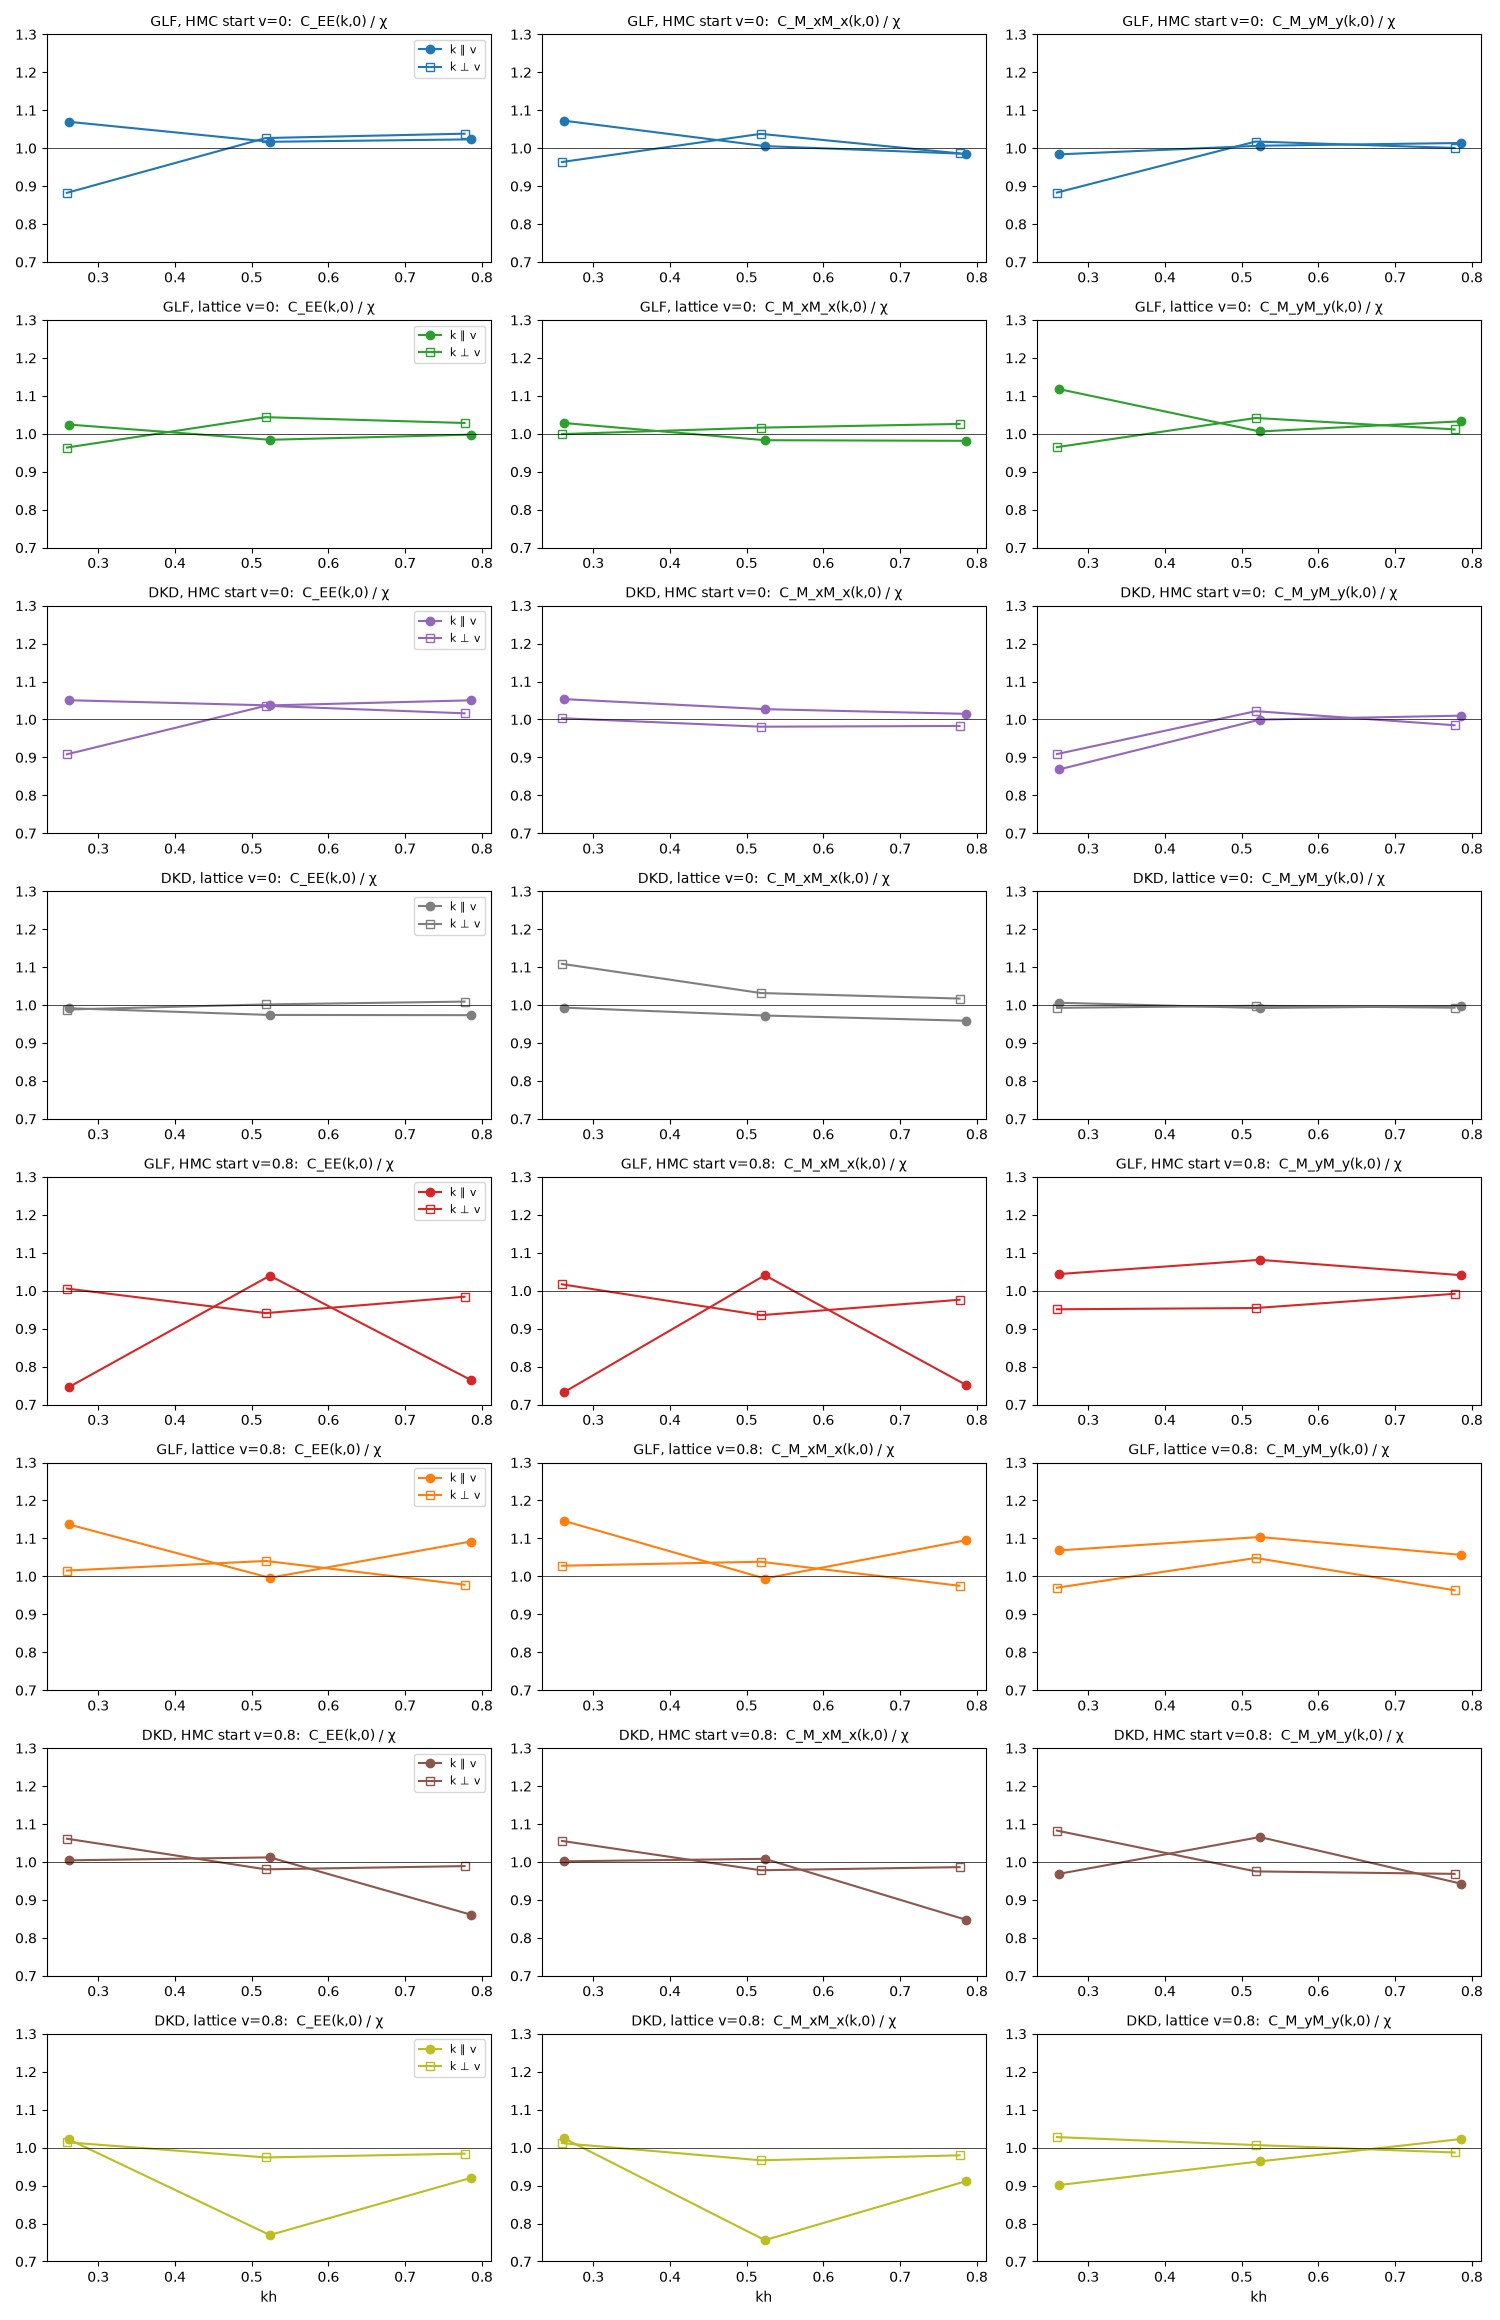
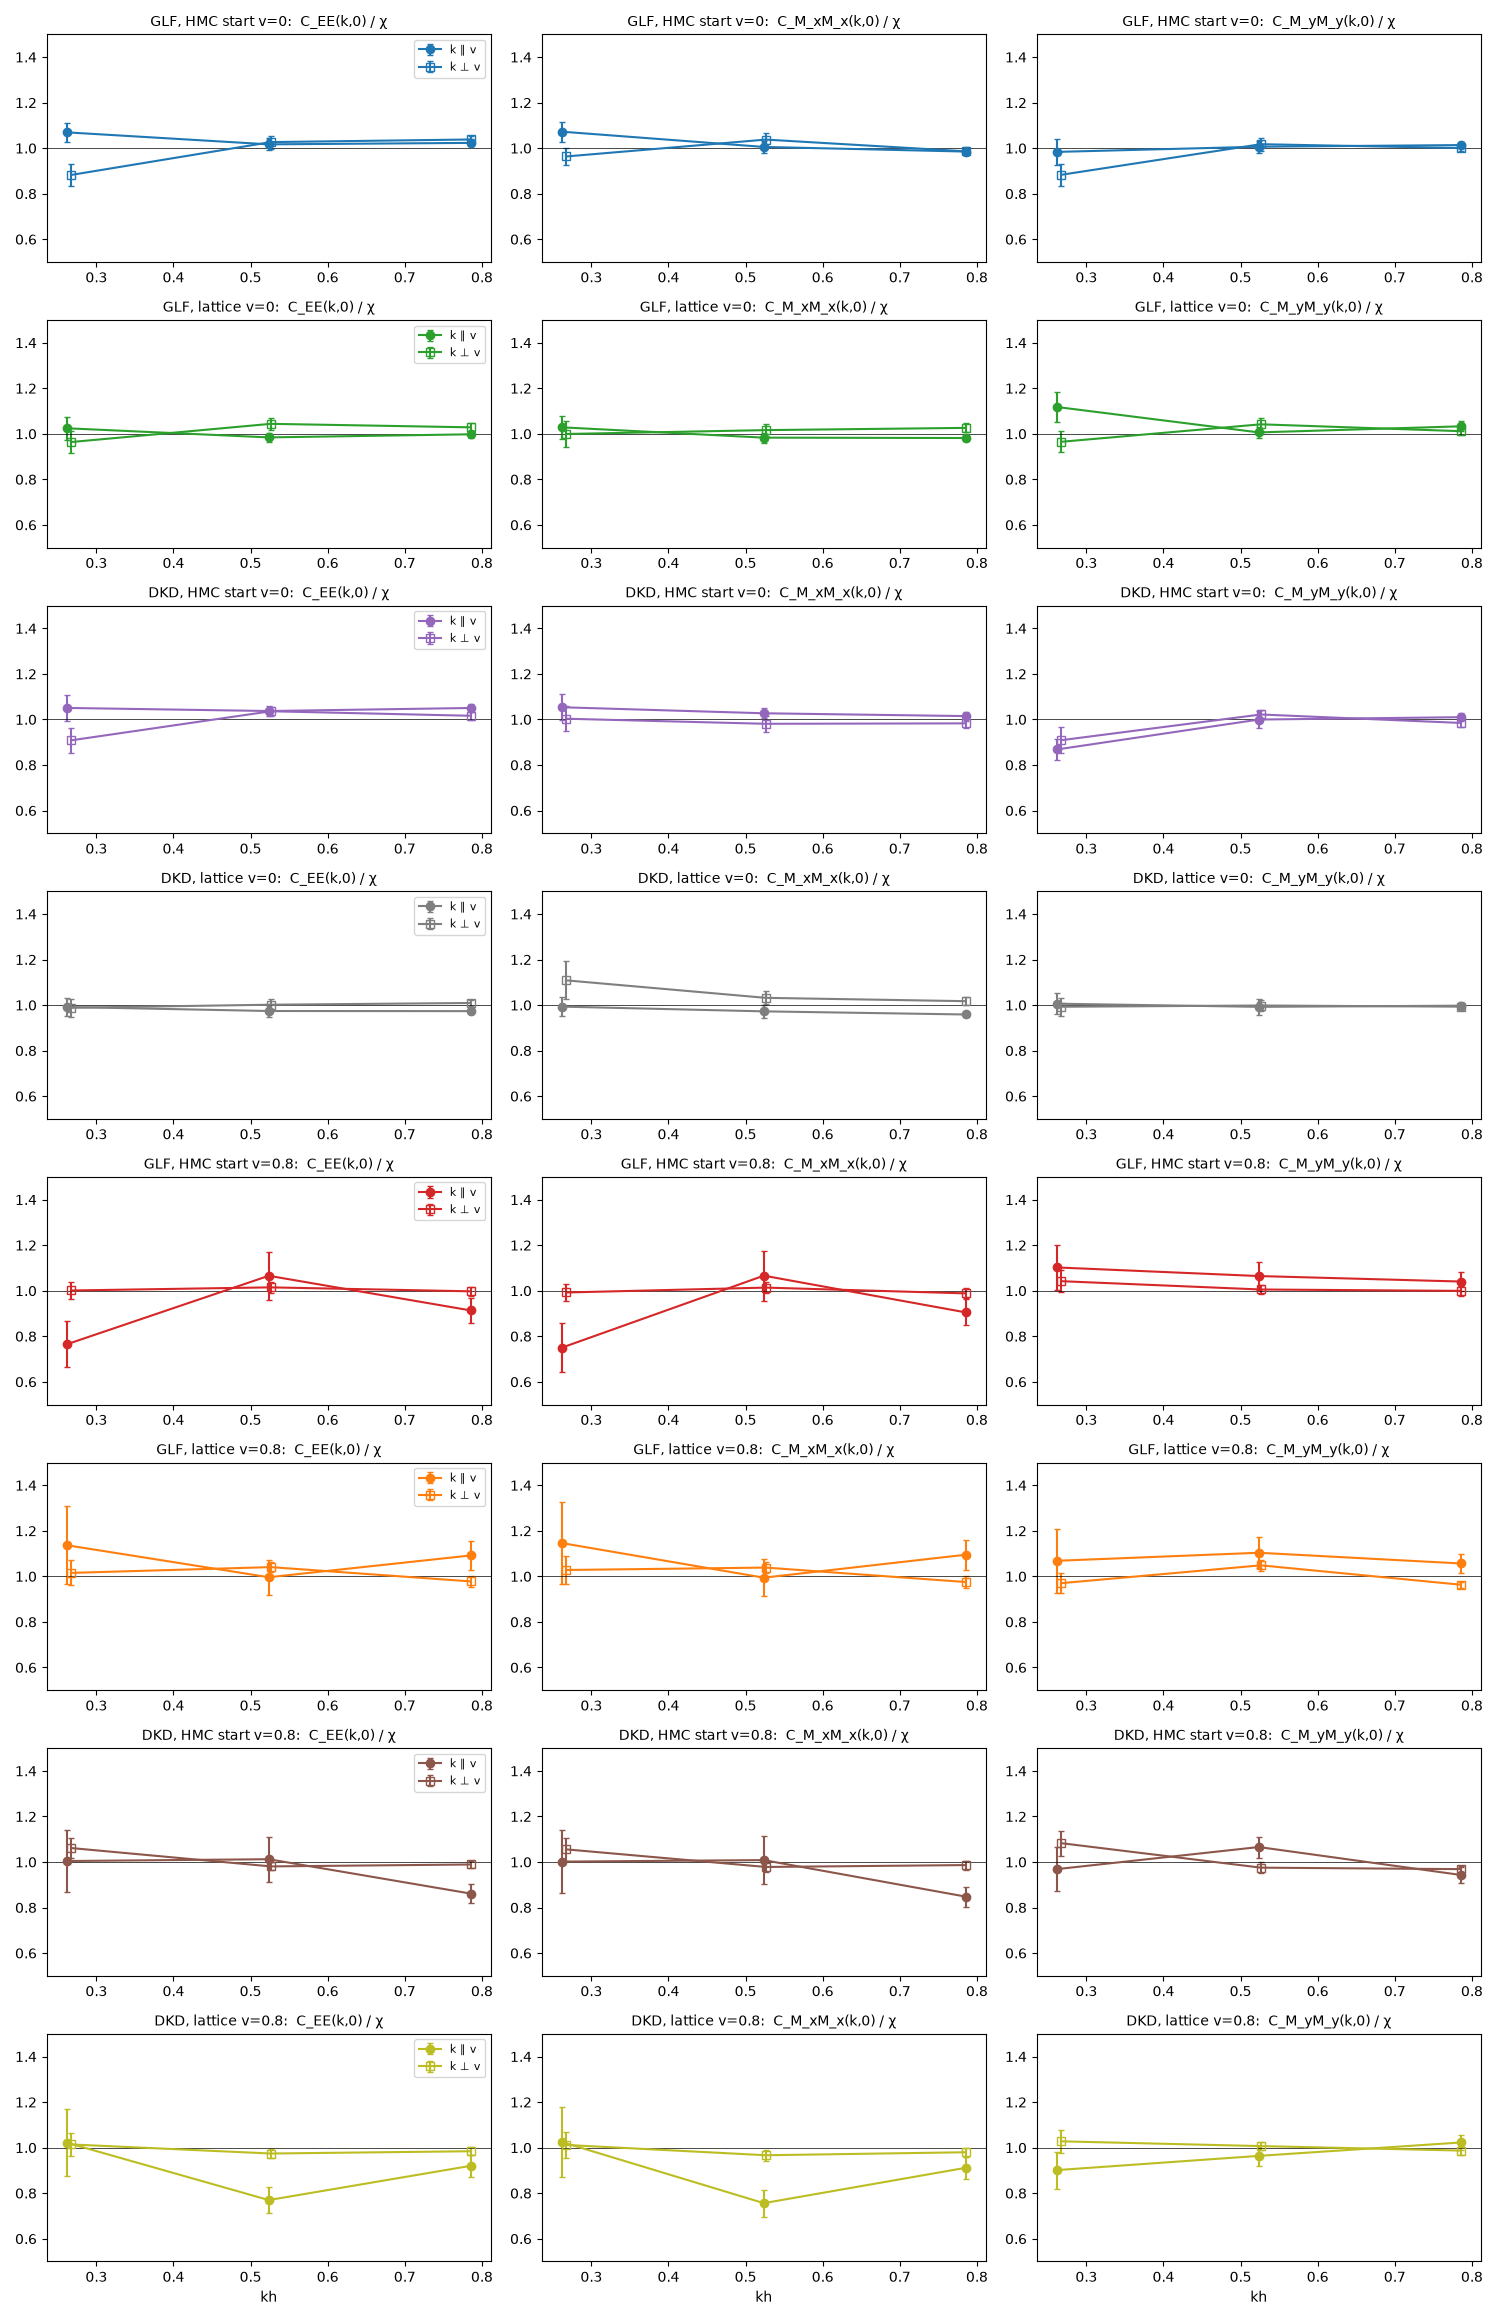
equilibrium_positions: hmc_dyn with all runs and errors at three k: the C_EE deficit along the flow at v0 = 0.8 is not removed by one change alone (DKD+HMC 3σ low at kh 0.79, GLF+HMC 2σ at 0.26; only GLF+lattice consistent with 1); boost_analysis: jackknife error bars on the equal-time figure, all k

diff --git a/docs/equilibrium_positions.tex b/docs/equilibrium_positions.tex
@@ -635,31 +635,41 @@ heating of about $20\%$ per $1000$ time units at $s_a=54$ into a negligible one.
 Campaign \texttt{hmc\_dyn} (\texttt{nersc/campaign\_hmc\_dyn.txt}, job 61295240) is a $2\times2$ of ideal step --- the generalized leapfrog (GLF) or
 drift--kick--drift (DKD) --- and start --- hybrid Monte Carlo (HMC) or the lattice --- at $v_0=0$ and $0.8$: $L=1.2$, $s_a=541$, $\eta/s=0.2$,
 $t=300$, 16 runs each, the one-kernel viscous step throughout.  The DKD + lattice cell is the commonkernel benchmark
-(\texttt{ck\_v0}, \texttt{ck\_v0.8}).  First look, with the sets complete so far (GLF + HMC start at $v_0=0.8$: 6 of 16 runs).  At $v_0=0.8$:
-\begin{center}
+(\texttt{ck\_v0}, \texttt{ck\_v0.8}).  All 16 runs of every cell are in.  Errors are jackknife over the runs (\Fig{fig:hdstatic}).  At $v_0=0.8$:
+\begin{center}\small
 \begin{tabular}{lcccc}
 \hline
  & DKD, lattice & DKD, HMC & GLF, lattice & GLF, HMC \\ \hline
-$C_{EE}(\bm k,0)/\chi$, $\bm k\parallel\bm v$, $kh=0.52$ & $0.77(6)$ & $1.01(10)$ & $1.00(8)$ & $1.04(21)$ \\
-$C_{EE}/\chi$, $\bm k\perp\bm v$, $kh=0.52$ & $0.97(2)$ & $0.98(2)$ & $1.04(2)$ & $0.94(4)$ \\
-shear along the flow, $\Gamma/\Gamma_{\rm hydro}$, $kh=0.52$ & $1.42(13)$ & $0.99(6)$ & $1.07(10)$ & $0.92(21)$ \\
-shear across the flow, $\Gamma/\Gamma_{\rm hydro}$, $kh=0.52$ & $1.02(7)$ & $0.93(8)$ & $1.03(6)$ & $1.03(9)$ \\
-fluctuation KE$/2VwT$ (predicted $17.6$) & $19.2$ & $17.4$ & $19.3$ & $17.5$ \\
-$\Delta H/H$ at $t=300$ & $3\times10^{-4}$ & $3\times10^{-4}$ & $6\times10^{-6}$ & $5\times10^{-6}$ \\
+$C_{EE}/\chi$, $\bm k\parallel\bm v$, $kh=0.26$ & $1.02(15)$ & $1.00(14)$ & $1.14(17)$ & $0.77(10)$ \\
+\phantom{$C_{EE}/\chi$, $\bm k\parallel\bm v$,} $kh=0.52$ & $0.77(6)$ & $1.01(10)$ & $1.00(8)$ & $1.07(11)$ \\
+\phantom{$C_{EE}/\chi$, $\bm k\parallel\bm v$,} $kh=0.79$ & $0.92(5)$ & $0.86(4)$ & $1.09(6)$ & $0.91(6)$ \\
+$\chi^2$ of the three against $1$ & $20$ & $11$ & $3$ & $8$ \\
+$C_{EE}/\chi$, $\bm k\perp\bm v$, $kh=0.26$--$0.79$ & $0.97$--$1.01$ & $0.98$--$1.06$ & $0.98$--$1.04$ & $1.00$--$1.02$ \\
+shear $\Gamma/\Gamma_{\rm hydro}$, $\bm k\parallel\bm v$, $kh=0.26$ & $1.53(24)$ & $1.30(34)$ & $0.99(33)$ & $0.92(15)$ \\
+\phantom{shear $\Gamma/\Gamma_{\rm hydro}$, $\bm k\parallel\bm v$,} $kh=0.52$ & $1.42(13)$ & $0.99(6)$ & $1.07(10)$ & $1.24(13)$ \\
+shear $\Gamma/\Gamma_{\rm hydro}$, $\bm k\perp\bm v$, $kh=0.52$ & $1.02(7)$ & $0.93(8)$ & $1.03(6)$ & $0.89(5)$ \\
+KE$/2VwT$ (predicted $17.6$) & $19.2$ & $17.4$ & $19.3$ & $17.6$ \\
+$\Delta H/H$ at $t=300$ & $3\times10^{-4}$ & $3\times10^{-4}$ & $6\times10^{-6}$ & $7\times10^{-6}$ \\
 \hline
 \end{tabular}
 \end{center}
-At $v_0=0$ all four cells agree: $C/\chi=0.97$--$1.04$ at $kh=0.52$, shear damping $1.02$--$1.14$, KE $0.99$--$1.00$, and $\Delta H/H$ $4\times10^{-6}$ (GLF)
-against $9\times10^{-4}$ (DKD) (\Fig{fig:hdstatic}).
+The errors across the flow are $0.02$--$0.05$.
 \begin{itemize}
-\item \emph{The deficit of $C_{EE}$ along the flow (\texttt{boost.tex}, \texttt{commonkernel.tex}) and the excess shear damping along the flow
-  belong to one cell only, DKD with the lattice start.}  Either change removes both: the HMC start with DKD, or the generalized
-  leapfrog from the lattice (\Fig{fig:hdshear}).
-\item \emph{The kinetic energy of the fluctuations} at $v_0=0.8$ follows the start, not the step: $17.4$--$17.5$ from HMC, near the
+\item \emph{At $v_0=0$ the four cells agree.}  For $C_{EE}$, the 24 values (4 cells, 3 $k$, 2 directions) lie in $0.88$--$1.07$, at most
+  $2.4\sigma$ from $1$ (at $kh=0.26$).  Shear damping is $1.02$--$1.14$ at $kh=0.52$, and KE $0.99$--$1.00$.  This is the scatter to expect
+  from 16 runs.
+\item \emph{Along the flow at $v_0=0.8$ the errors are $2$--$3$ times larger, and three of the four cells fall low somewhere.}  DKD + lattice
+  ($0.77(6)$ at $kh=0.52$, $4\sigma$) is the worst, but DKD + HMC is $3\sigma$ low at $kh=0.79$ and GLF + HMC is $2\sigma$ low at $kh=0.26$.  Only GLF +
+  lattice is consistent with $1$ at all three, and it lies high.  \emph{Neither the HMC start nor the generalized leapfrog alone clearly removes
+  the deficit}; 16 runs cannot decide between the cells.
+\item \emph{The excess shear damping along the flow} is clearest in DKD + lattice ($1.53(24)$, $1.42(13)$).  The other cells are within
+  $2\sigma$ of $1$ at both $k$; GLF + HMC is $1.24(13)$ at $kh=0.52$.
+\item \emph{The kinetic energy of the fluctuations} at $v_0=0.8$ follows the start, not the step.  It is $17.4$--$17.6$ from HMC, at the
   prediction $17.6$, against $19.2$--$19.3$ from the lattice.
-\item \emph{The energy} is conserved $60$--$230$ times better with the generalized leapfrog, at rest and moving.
+\item \emph{The energy} is conserved $45$--$230$ times better with the generalized leapfrog, at rest and moving.
 \end{itemize}
-The GLF + HMC cell at $v_0=0.8$ is still running; its errors will shrink.
+Deciding the deficit along the flow needs more runs per cell: the errors there fall as $1/\sqrt{\rm runs}$, so a $2\sigma$ effect of
+$0.15$ needs about $4\times$ the runs to show at $4\sigma$.
 
 \paragraph{The equilibrium $S(\bm k)$ from many chains} (campaign \texttt{hmc\_eq}, job 61295241; first 37 of 72 chains: $L=1.2$, $s_a=135$ (13
 chains) and $541$ (16), and $s_a=541$ boosted to $v_0=0.8$ (8; $s_a=902$ in the lab), \Fig{fig:hmceqfirst}).  $S(\bm k)/(4/s_a)$ per band of $kh$,
@@ -708,7 +718,7 @@ $t$ for four bands of $kh$; dashed, the HMC equilibrium of \texttt{hmc\_eq} at t
 \begin{figure}[p]
 \includegraphics[width=\textwidth]{figs/boost_static_HD.png}
 \caption{Campaign \texttt{hmc\_dyn}: equal-time $C_{AA}(\bm k,0)/\chi_{AA}$ against $kh$, one row per cell of the $2\times2$ (GLF or DKD, HMC or lattice start) at
-$v_0=0$ and $0.8$; filled $\bm k\parallel\bm v$, open $\bm k\perp\bm v$.  GLF + HMC at $v_0=0.8$: 6 runs so far.}
+$v_0=0$ and $0.8$, 16 runs each, jackknife errors; filled $\bm k\parallel\bm v$, open $\bm k\perp\bm v$ (shifted slightly in $kh$ for clarity).}
 \label{fig:hdstatic}
 \end{figure}
 \begin{figure}[p]
